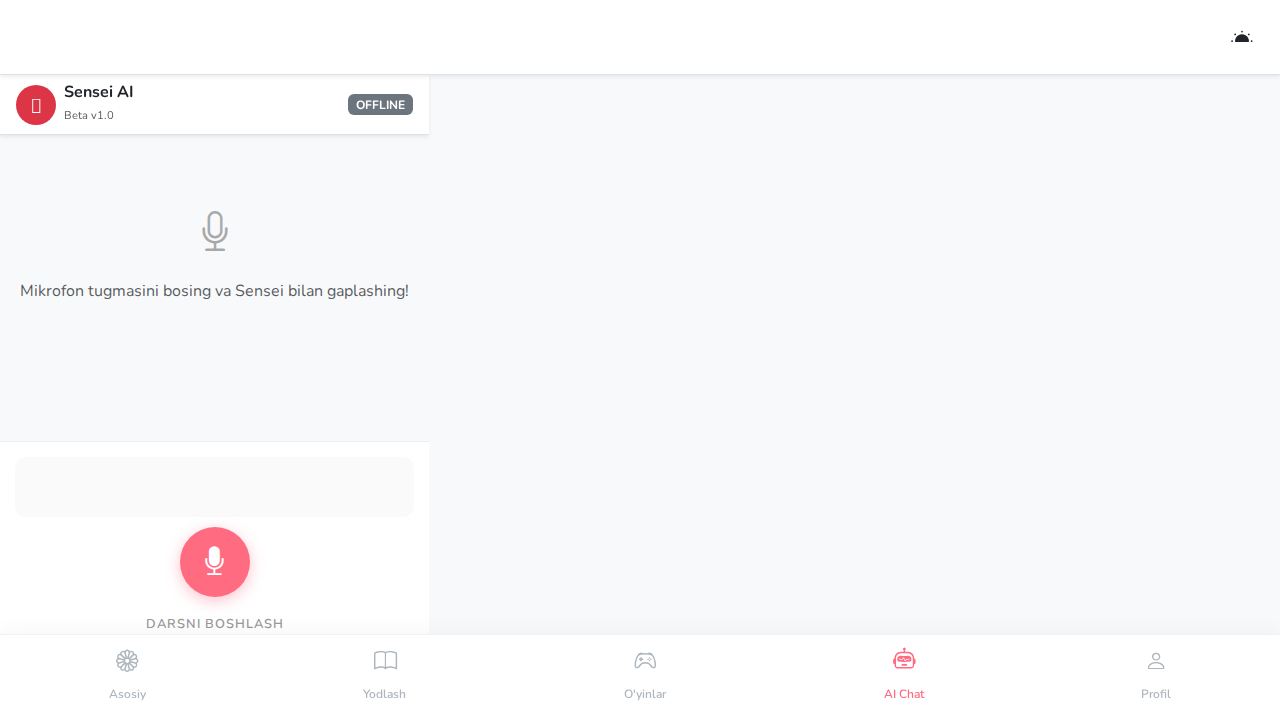
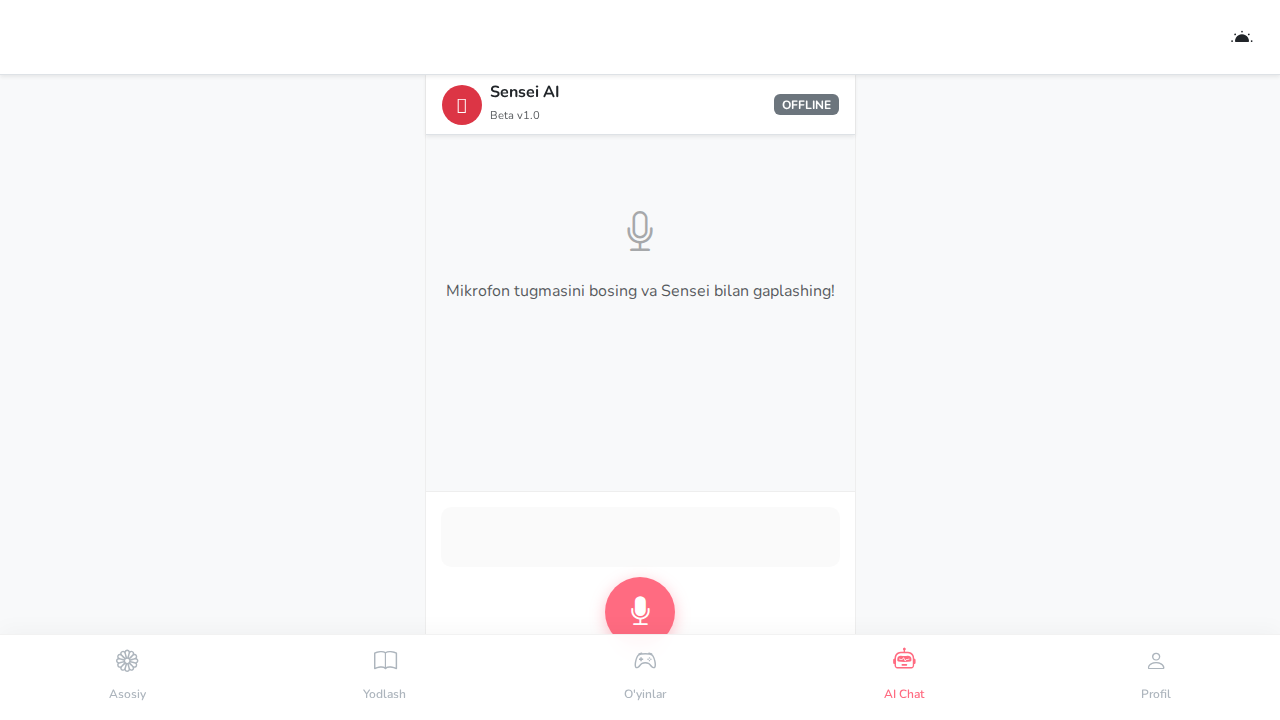
fix: AI Chat audio payload format and PC layout
- Corrected the WebSocket payload structure for Gemini Live API to fix audio transmission issues.
- Updated CSS to center the chat interface on Desktop screens (max-width: 800px) and ensure controls are properly positioned.
- Addressed user feedback regarding "AI not hearing" and "broken PC layout".

diff --git a/vocabulary/templates/vocabulary/ai_chat.html b/vocabulary/templates/vocabulary/ai_chat.html
@@ -16,14 +16,20 @@
 <style>
     /* Chat Specific Styles to override/complement base.html */
     .chat-container {
-        height: calc(100vh - 130px); /* Adjust for header/nav */
+        height: calc(100vh - 80px); /* Adjusted height calculation */
         display: flex;
         flex-direction: column;
         background-color: #f8f9fa;
+        max-width: 800px; /* Center on PC */
+        margin: 0 auto;
+        border-left: 1px solid #eee;
+        border-right: 1px solid #eee;
+        position: relative; /* Ensure stacking context */
     }
 
     body.dark-mode .chat-container {
         background-color: #121212;
+        border-color: #333;
     }
 
     .chat-messages {
@@ -33,6 +39,8 @@
         display: flex;
         flex-direction: column;
         gap: 15px;
+        /* Ensure it doesn't get hidden behind controls */
+        margin-bottom: 0;
     }
 
     .chat-bubble {
@@ -271,7 +279,13 @@ MULOQOT STRATEGIYASI:
                 const inputData = e.inputBuffer.getChannelData(0);
                 // Convert Float32 to base64 PCM16
                 const b64Data = floatTo16BitPCM(inputData);
-                session.sendRealtimeInput([{ mimeType: "audio/pcm;rate=16000", data: b64Data }]);
+                // Fix: Send object with 'media' property, not an array
+                session.sendRealtimeInput({
+                    media: {
+                        mimeType: "audio/pcm;rate=16000",
+                        data: b64Data
+                    }
+                });
             };
 
             source.connect(processor);
